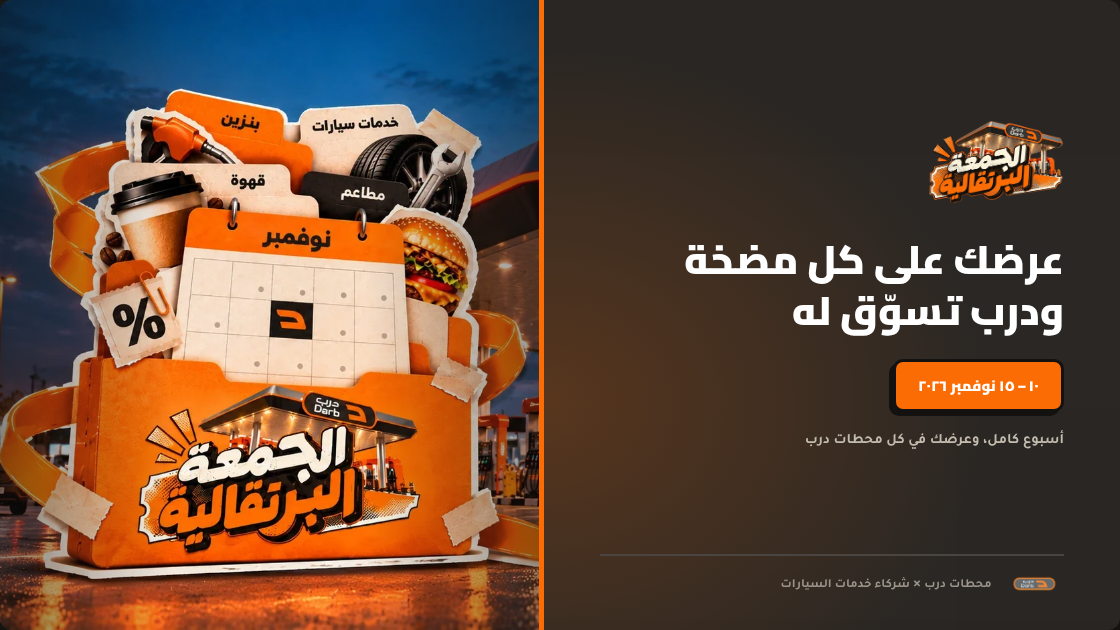
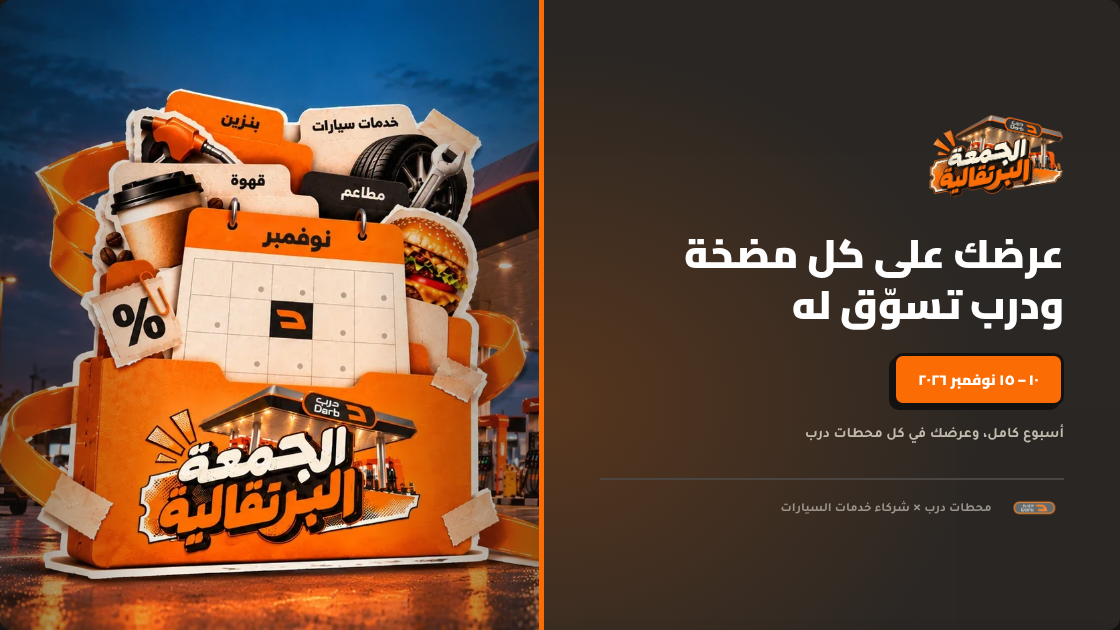
الغلاف: سطر درب في مجرى النص فلا يركب على الكلام مهما طال
تعديلها على سطر «أسبوع كامل…» صار سطرين، فركب عليه سطر «محطات درب ×
شركاء خدمات السيارات» لأنّه كان مثبّتًا أسفل العمود.

- أُزيل التثبيت المطلق: السطر صار آخر عناصر العمود، والمجموعة كلها
  تتوسّط رأسيًا، فما فيه احتمال تداخل مهما طال أي سطر.
- الخطّ الفاصل يمتدّ بعرض العمود كما كان.
- التغيير في التنسيق فقط، ولا يمسّ أي كلام محفوظ عندها.

Claude-Session: https://claude.ai/code/session_01Nv6uTXN8SXNKbpytXK82U5

diff --git a/darb-orange-friday-artifact.html b/darb-orange-friday-artifact.html
@@ -136,7 +136,7 @@ p{margin:0}
 .cover::before{opacity:.2}
 .cover .in{position:relative;z-index:1;display:flex;flex-direction:column;
   justify-content:center;align-items:flex-start;text-align:start;
-  padding:52px 56px 108px}
+  padding:48px 56px 44px}
 .cover .in::before{content:"";position:absolute;inset:0;pointer-events:none;
   background:radial-gradient(135% 100% at 0% 64%,rgba(252,108,5,.22),rgba(252,108,5,0) 58%)}
 .cover .in > *{position:relative}
@@ -149,9 +149,10 @@ p{margin:0}
   align-self:flex-start}
 .cover .sub{margin:var(--s3) 0 0;font-size:14.5px;line-height:1.8;font-weight:600;
   color:var(--g300)}
-.cover .foot2{position:absolute;inset-inline-start:56px;inset-inline-end:56px;
-  bottom:34px;display:flex;align-items:center;gap:13px;padding-top:var(--s3);
-  border-top:2px solid var(--g700);font-size:12.5px;color:var(--g400);font-weight:700}
+/* في مجرى النص لا فوقه: مهما طال الكلام ما يركب أحدهما على الآخر */
+.cover .foot2{align-self:stretch;margin-top:var(--s5);display:flex;align-items:center;
+  gap:13px;padding-top:var(--s3);border-top:2px solid var(--g700);
+  font-size:12.5px;color:var(--g400);font-weight:700}
 .cover .foot2 img{height:24px}
 .cover .art{position:relative;overflow:hidden;
   border-inline-start:5px solid var(--orange)}

diff --git a/darb-orange-friday.html b/darb-orange-friday.html
@@ -141,7 +141,7 @@ p{margin:0}
 .cover::before{opacity:.2}
 .cover .in{position:relative;z-index:1;display:flex;flex-direction:column;
   justify-content:center;align-items:flex-start;text-align:start;
-  padding:52px 56px 108px}
+  padding:48px 56px 44px}
 .cover .in::before{content:"";position:absolute;inset:0;pointer-events:none;
   background:radial-gradient(135% 100% at 0% 64%,rgba(252,108,5,.22),rgba(252,108,5,0) 58%)}
 .cover .in > *{position:relative}
@@ -154,9 +154,10 @@ p{margin:0}
   align-self:flex-start}
 .cover .sub{margin:var(--s3) 0 0;font-size:14.5px;line-height:1.8;font-weight:600;
   color:var(--g300)}
-.cover .foot2{position:absolute;inset-inline-start:56px;inset-inline-end:56px;
-  bottom:34px;display:flex;align-items:center;gap:13px;padding-top:var(--s3);
-  border-top:2px solid var(--g700);font-size:12.5px;color:var(--g400);font-weight:700}
+/* في مجرى النص لا فوقه: مهما طال الكلام ما يركب أحدهما على الآخر */
+.cover .foot2{align-self:stretch;margin-top:var(--s5);display:flex;align-items:center;
+  gap:13px;padding-top:var(--s3);border-top:2px solid var(--g700);
+  font-size:12.5px;color:var(--g400);font-weight:700}
 .cover .foot2 img{height:24px}
 .cover .art{position:relative;overflow:hidden;
   border-inline-start:5px solid var(--orange)}

diff --git a/tools/build_retro.py b/tools/build_retro.py
@@ -245,7 +245,7 @@ p{margin:0}
 .cover::before{opacity:.2}
 .cover .in{position:relative;z-index:1;display:flex;flex-direction:column;
   justify-content:center;align-items:flex-start;text-align:start;
-  padding:52px 56px 108px}
+  padding:48px 56px 44px}
 .cover .in::before{content:"";position:absolute;inset:0;pointer-events:none;
   background:radial-gradient(135% 100% at 0% 64%,rgba(252,108,5,.22),rgba(252,108,5,0) 58%)}
 .cover .in > *{position:relative}
@@ -258,9 +258,10 @@ p{margin:0}
   align-self:flex-start}
 .cover .sub{margin:var(--s3) 0 0;font-size:14.5px;line-height:1.8;font-weight:600;
   color:var(--g300)}
-.cover .foot2{position:absolute;inset-inline-start:56px;inset-inline-end:56px;
-  bottom:34px;display:flex;align-items:center;gap:13px;padding-top:var(--s3);
-  border-top:2px solid var(--g700);font-size:12.5px;color:var(--g400);font-weight:700}
+/* في مجرى النص لا فوقه: مهما طال الكلام ما يركب أحدهما على الآخر */
+.cover .foot2{align-self:stretch;margin-top:var(--s5);display:flex;align-items:center;
+  gap:13px;padding-top:var(--s3);border-top:2px solid var(--g700);
+  font-size:12.5px;color:var(--g400);font-weight:700}
 .cover .foot2 img{height:24px}
 .cover .art{position:relative;overflow:hidden;
   border-inline-start:5px solid var(--orange)}
